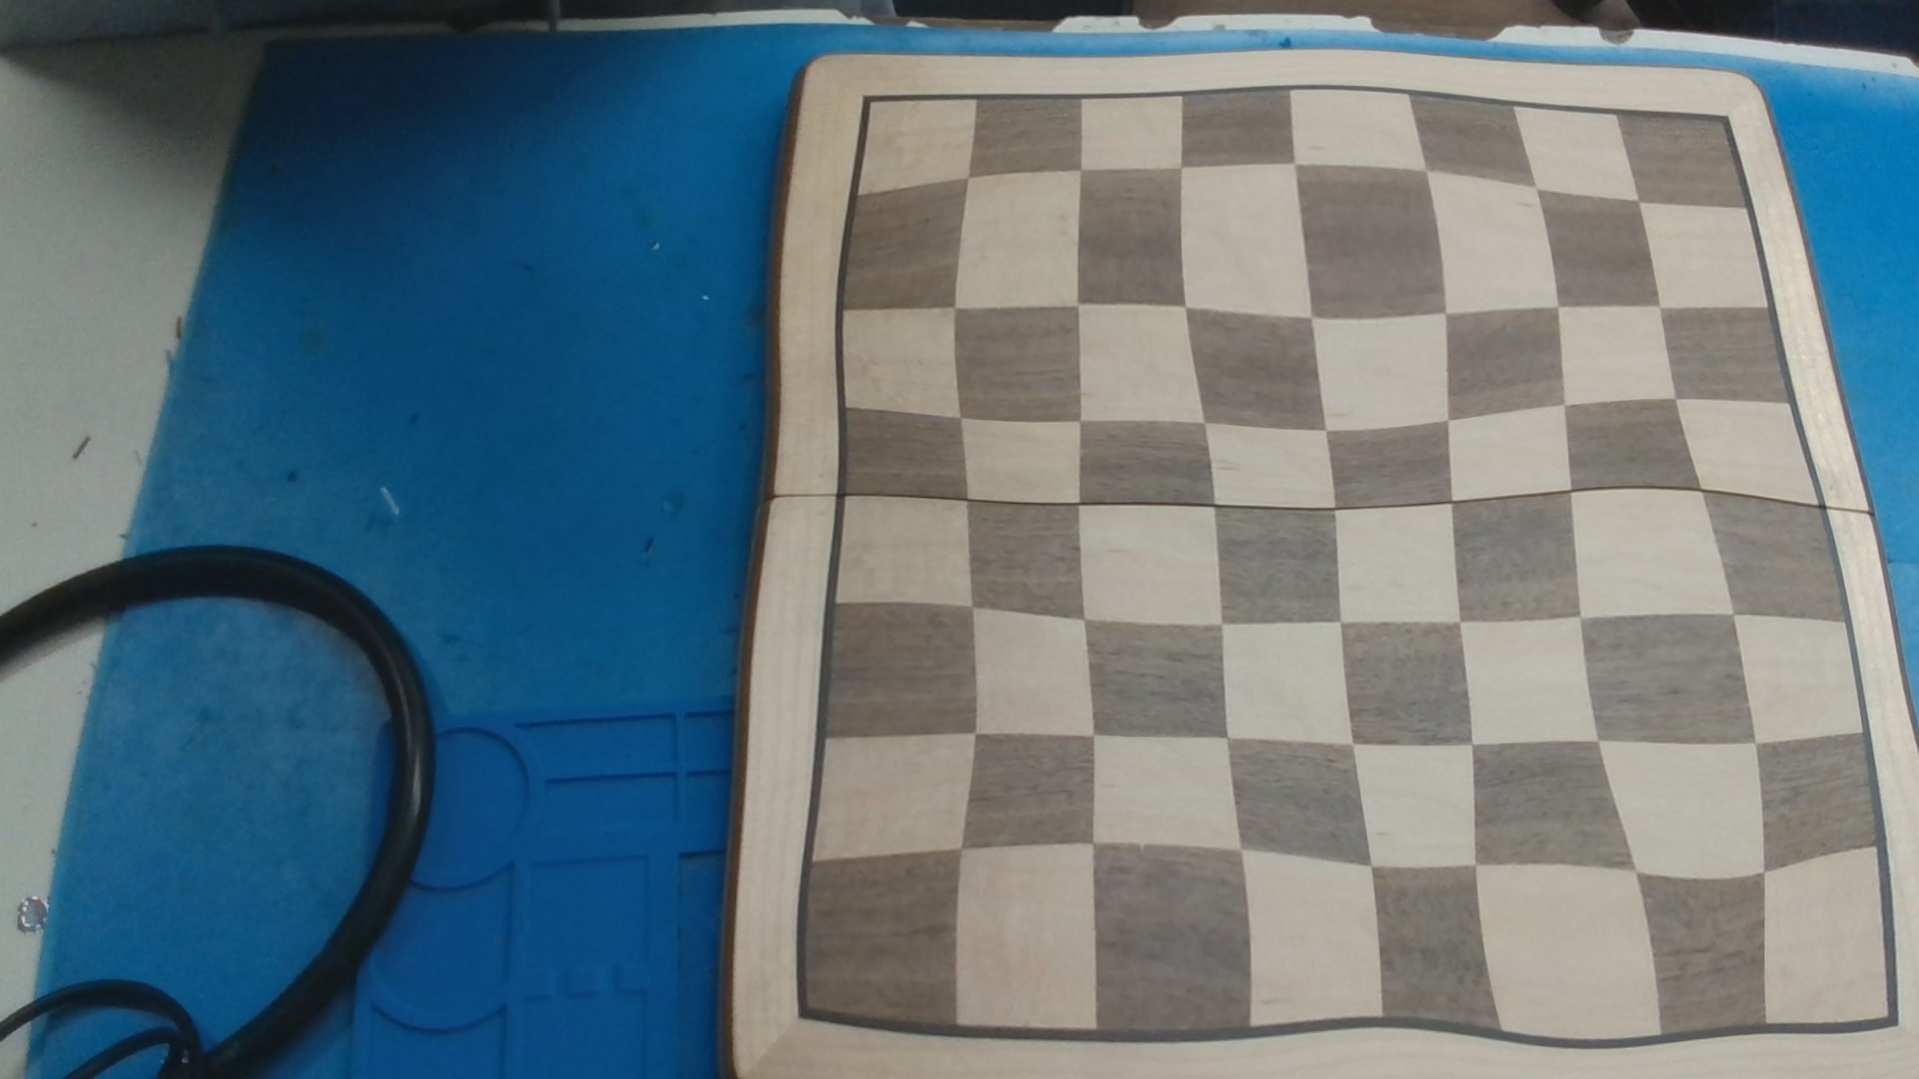
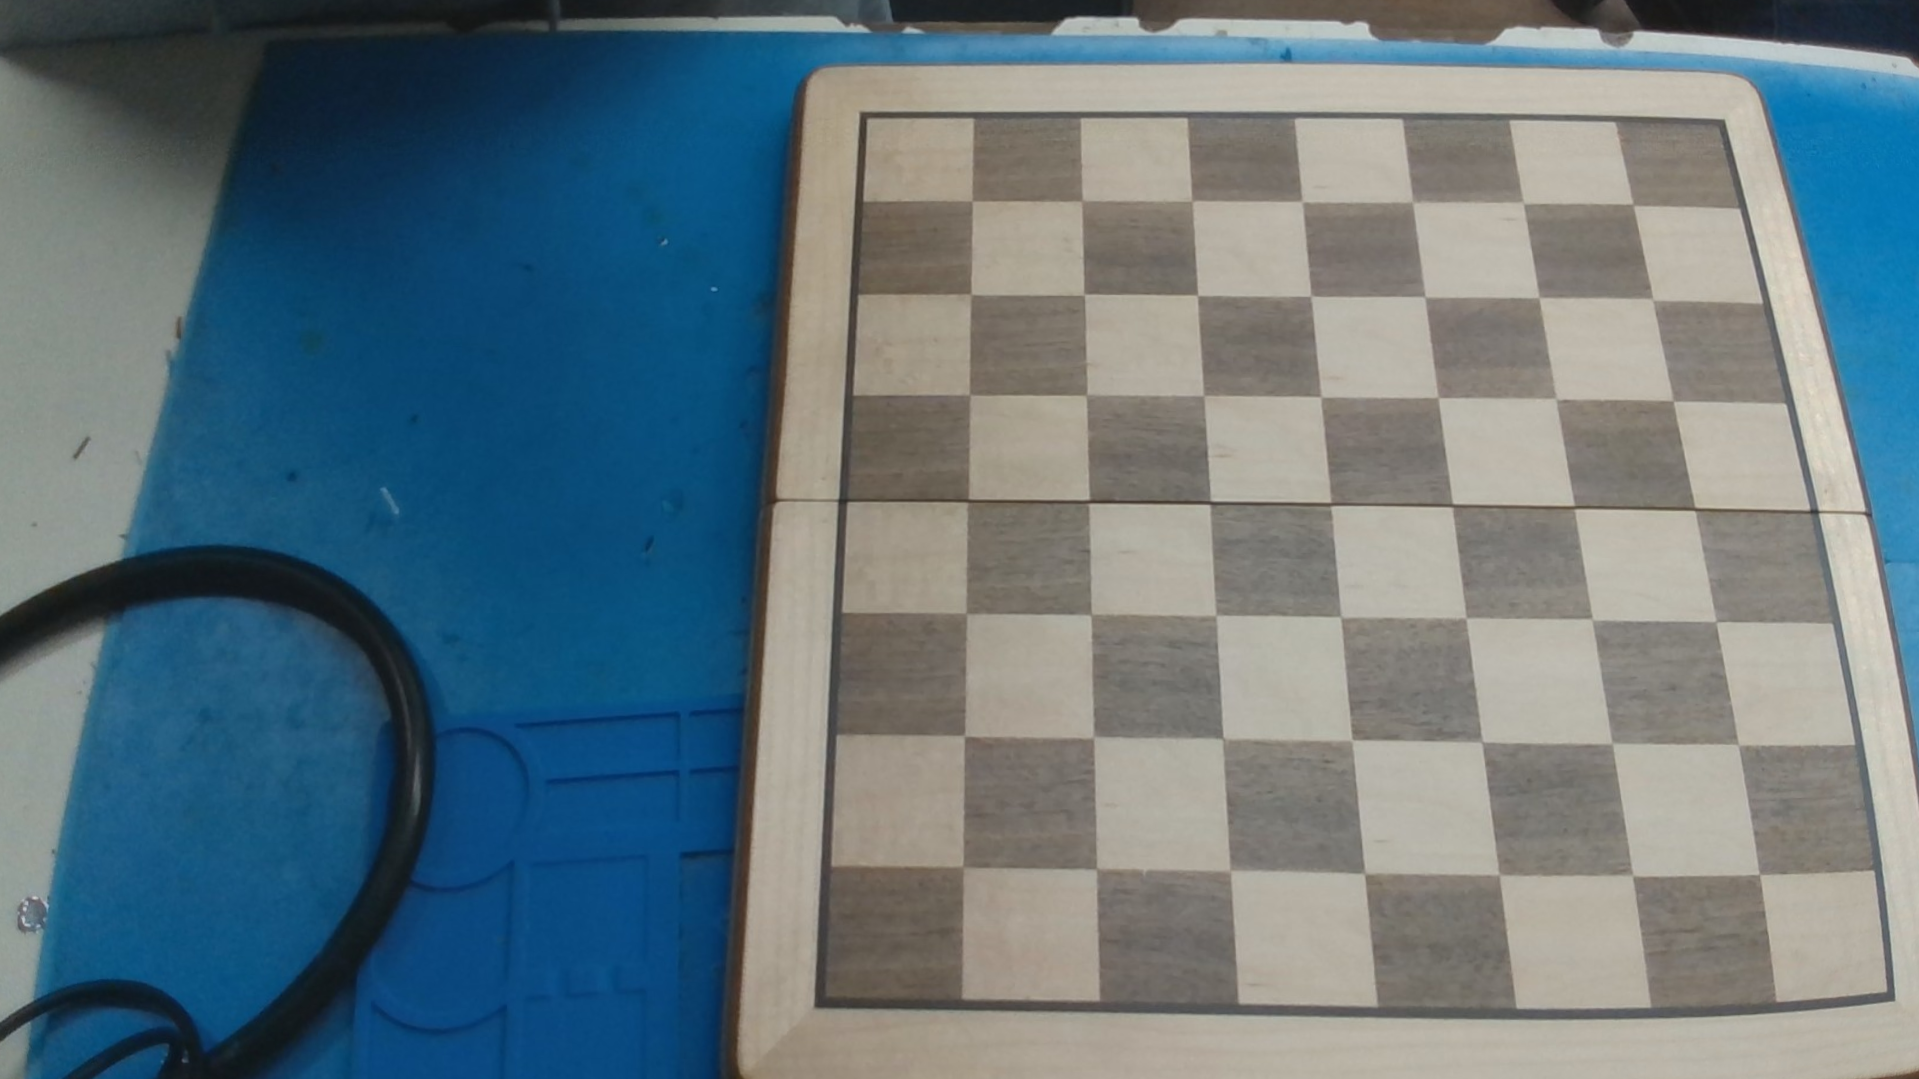
changes

diff --git a/camera_calibration/calibration.py b/camera_calibration/calibration.py
@@ -46,7 +46,7 @@ print("Camera matrix:\n", mtx)
 print("Distortion coefficients:\n", dist)
 
 # === UNDISTORT ONE IMAGE ===
-img = cv.imread(images[0])
+img = cv.imread('data/img1.jpg')
 h, w = img.shape[:2]
 newcameramtx, roi = cv.getOptimalNewCameraMatrix(
     mtx, dist, (w, h), 0, (w, h)
